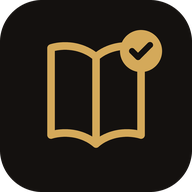
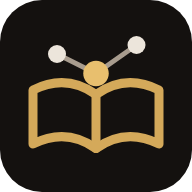
«Pegar reel» desde el portapapeles y nuevo icono
- QuickCapture: barra con «Pegar reel» en la biblioteca, destacada al abrir
  o volver a la app (el momento en que vienes de copiar un enlace en
  Instagram). Un toque guarda el reel en la cola, avisa si ya estaba o si ya
  es ficha, y un enlace de YouTube abre Añadir con la URL puesta. Es lo más
  cerca del menú Compartir que iOS permite a una web instalada.
- Compartir desde Android (share_target) confirma «Reel guardado en la cola».
- Icono nuevo: libro abierto bajo una constelación (el Atlas), regenerados
  los PNG (192, 512, maskable con zona segura y apple-touch a sangre).
- Service worker v4 para que el icono nuevo no se quede en caché.

Claude-Session: https://claude.ai/code/session_016FohR3u5mSqasbiA1kJaFm

diff --git a/src/ui/QuickCapture.tsx b/src/ui/QuickCapture.tsx
@@ -1,0 +1,116 @@
+import { useEffect, useState } from 'react';
+import type { KnowledgeCard } from '../domain/types';
+import { enqueueMany, extractAllInstagramUrls, listQueue, shortcodeOf } from '../services/queue';
+import { IconAdd, IconClose } from './icons';
+
+const YT = /https?:\/\/(?:www\.|m\.)?(?:youtube\.com\/(?:watch\?[^\s]*v=|shorts\/)|youtu\.be\/)[\w-]{11}[^\s]*/;
+
+/** ¿Este navegador deja leer el portapapeles con un toque? */
+export const canPaste = () => typeof navigator !== 'undefined' && !!navigator.clipboard?.readText;
+
+/**
+ * Captura rápida desde el portapapeles: lo más cerca que puede estar una web
+ * instalada en el iPhone del menú Compartir, que iOS no le deja usar.
+ *
+ * En Instagram: Compartir → Copiar enlace. En Bibliothek: «Pegar reel». Un
+ * toque (más el globo «Pegar» que iOS muestra por privacidad) y el reel queda
+ * en la cola. Un enlace de YouTube abre Añadir con la URL ya puesta.
+ *
+ * Una web no puede mirar el portapapeles sin que la toques, así que la barra no
+ * sabe si hay algo copiado: se destaca al volver a la app, que es justo cuando
+ * vienes de copiar un enlace.
+ */
+export function QuickCapture({
+  cards,
+  destacada,
+  onDismiss,
+  onQueued,
+  onYoutube,
+}: {
+  cards: KnowledgeCard[];
+  /** Acabas de volver a la app: la barra se ofrece con más presencia. */
+  destacada: boolean;
+  onDismiss: () => void;
+  onQueued: () => void;
+  onYoutube: (url: string) => void;
+}) {
+  const [msg, setMsg] = useState<{ kind: 'ok' | 'info' | 'error'; text: string } | null>(null);
+
+  useEffect(() => {
+    if (!msg) return;
+    const t = setTimeout(() => setMsg(null), 6000);
+    return () => clearTimeout(t);
+  }, [msg]);
+
+  async function pegar() {
+    let text = '';
+    try {
+      text = (await navigator.clipboard.readText()).trim();
+    } catch {
+      setMsg({ kind: 'error', text: 'No se pudo leer lo copiado. Pega el enlace a mano en Añadir → Instagram.' });
+      return;
+    }
+    const reels = extractAllInstagramUrls(text);
+    if (reels.length > 0) {
+      const fichados = new Set(
+        cards.filter((c) => c.fuente.tipo === 'instagram').map((c) => shortcodeOf(c.fuente.referencia))
+      );
+      const yaFicha = reels.filter((u) => fichados.has(shortcodeOf(u)));
+      const nuevos = reels.filter((u) => !fichados.has(shortcodeOf(u)));
+      const n = nuevos.length ? enqueueMany(nuevos.join('\n')) : 0;
+      onDismiss();
+      if (n > 0) {
+        onQueued();
+        const total = listQueue().length;
+        setMsg({
+          kind: 'ok',
+          text: `${n === 1 ? 'Reel guardado' : `${n} reels guardados`} en la cola · ${total} en total.`,
+        });
+      } else if (yaFicha.length) {
+        setMsg({ kind: 'info', text: 'Ya tienes una ficha de ese reel.' });
+      } else {
+        setMsg({ kind: 'info', text: 'Ese reel ya estaba en la cola.' });
+      }
+      return;
+    }
+    const yt = YT.exec(text);
+    if (yt) {
+      onDismiss();
+      onYoutube(yt[0]);
+      return;
+    }
+    setMsg({
+      kind: 'error',
+      text: text
+        ? 'Lo copiado no es un enlace de Instagram ni de YouTube.'
+        : 'No hay nada copiado. En Instagram: Compartir → Copiar enlace.',
+    });
+  }
+
+  if (msg) {
+    return (
+      <div className={`quick-capture done ${msg.kind}`} role="status">
+        <span className="qc-text">{msg.text}</span>
+        <button className="qc-close" onClick={() => setMsg(null)} aria-label="Cerrar aviso">
+          <IconClose size={15} />
+        </button>
+      </div>
+    );
+  }
+
+  return (
+    <div className={`quick-capture ${destacada ? 'destacada' : ''}`}>
+      <span className="qc-text">
+        {destacada ? '¿Has copiado un reel? Guárdalo en un toque.' : 'Enlace de Instagram o YouTube copiado'}
+      </span>
+      <button className="btn small primary qc-btn" onClick={pegar}>
+        <IconAdd size={15} /> Pegar reel
+      </button>
+      {destacada && (
+        <button className="qc-close" onClick={onDismiss} aria-label="Ocultar">
+          <IconClose size={15} />
+        </button>
+      )}
+    </div>
+  );
+}

diff --git a/src/App.tsx b/src/App.tsx
@@ -16,12 +16,13 @@ import { Settings } from './ui/Settings';
 import { Atlas, type AtlasTab } from './ui/Atlas';
 import { buildGraph } from './services/graph';
 import { Deck } from './ui/Deck';
+import { canPaste, QuickCapture } from './ui/QuickCapture';
 import { IconAdd, IconChart, IconCompass, IconDice, IconLibrary, IconSettings } from './ui/icons';
 
 type View =
   | { name: 'library' }
   | { name: 'practice' }
-  | { name: 'import'; startTab?: 'instagram'; aviso?: string; nonce?: number }
+  | { name: 'import'; startTab?: 'instagram' | 'youtube'; url?: string; aviso?: string; nonce?: number }
   /** `back`: a dónde volver al cerrar la ficha (por defecto, la biblioteca). */
   | { name: 'card'; id: string; back?: View }
   | { name: 'atlas'; tab: AtlasTab; sel: string | null }
@@ -40,6 +41,13 @@ export default function App() {
   const [libFilters, setLibFilters] = useState<LibraryFilters>(NO_FILTERS);
   const libScroll = useRef(0);
   const graph = useMemo(() => buildGraph(cards, links), [cards, links]);
+  /** Al abrir o volver a la app (p. ej. desde Instagram), la barra de «Pegar reel» se destaca. */
+  const [vuelta, setVuelta] = useState(true);
+  useEffect(() => {
+    const onVisible = () => document.visibilityState === 'visible' && setVuelta(true);
+    document.addEventListener('visibilitychange', onVisible);
+    return () => document.removeEventListener('visibilitychange', onVisible);
+  }, []);
 
   /** Recarga fichas y, de paso, crea los micropasos que falten (fichas antiguas incluidas). */
   const refresh = useCallback(async () => {
@@ -166,7 +174,12 @@ export default function App() {
     if (!shared) return;
     history.replaceState(null, '', location.pathname);
     const added = enqueue(shared);
-    setView({ name: 'import', startTab: 'instagram' });
+    setView({
+      name: 'import',
+      startTab: 'instagram',
+      nonce: Date.now(),
+      aviso: added ? 'Reel guardado en la cola.' : undefined,
+    });
     if (!added) {
       setTimeout(() => alert('No se encontró un reel de Instagram en lo compartido (o ya estaba en la cola).'), 0);
     }
@@ -204,6 +217,16 @@ export default function App() {
       </header>
 
       <main className="main">
+        {canPaste() &&
+          (view.name === 'library' || (vuelta && ['practice', 'atlas', 'insights'].includes(view.name))) && (
+            <QuickCapture
+              cards={cards}
+              destacada={vuelta}
+              onDismiss={() => setVuelta(false)}
+              onQueued={() => undefined}
+              onYoutube={(url) => setView({ name: 'import', startTab: 'youtube', url, nonce: Date.now() })}
+            />
+          )}
         {view.name === 'library' && (
           <Library
             cards={cards}
@@ -226,6 +249,7 @@ export default function App() {
           <ImportView
             key={view.nonce ?? 'import'}
             startTab={view.startTab}
+            initialUrl={view.url}
             initialNotice={view.aviso}
             onGoSettings={() => setView({ name: 'settings' })}
             onSaved={(card) => {

diff --git a/src/styles.css b/src/styles.css
@@ -984,3 +984,28 @@ a.btn { text-decoration: none; }
 }
 
 .insights-settings { margin-top: 8px; }
+
+/* ---------- Pegar reel: captura rápida desde el portapapeles ---------- */
+
+.quick-capture {
+  display: flex; align-items: center; gap: 10px;
+  padding: 8px 8px 8px 14px; margin-bottom: 16px;
+  border: 1px solid var(--border); border-radius: var(--radius-sm);
+  background: var(--bg-raised);
+}
+.quick-capture.destacada {
+  border-color: color-mix(in srgb, var(--accent) 45%, var(--border));
+  background: color-mix(in srgb, var(--accent) 9%, var(--bg-raised));
+}
+.qc-text { flex: 1; min-width: 0; font-size: 13.5px; color: var(--text-dim); line-height: 1.35; }
+.quick-capture.destacada .qc-text { color: var(--text); }
+.qc-btn { flex: none; min-height: 40px; }
+.qc-close {
+  flex: none; width: 36px; height: 36px; display: grid; place-items: center;
+  background: none; border: none; color: var(--text-faint); border-radius: var(--radius-xs);
+}
+.qc-close:hover { color: var(--text); }
+.quick-capture.done { padding-block: 10px; }
+.quick-capture.done.ok { border-color: color-mix(in srgb, var(--ok) 45%, var(--border)); }
+.quick-capture.done.ok .qc-text { color: var(--text); }
+.quick-capture.done.error .qc-text { color: var(--danger); }

diff --git a/src/ui/ImportView.tsx b/src/ui/ImportView.tsx
@@ -79,8 +79,11 @@ export function ImportView({
   onSaved,
   onBatchDone,
   onGoSettings,
+  initialUrl,
 }: {
-  startTab?: 'instagram';
+  startTab?: 'instagram' | 'youtube';
+  /** URL de YouTube ya puesta (viene de «Pegar reel» con un enlace de YouTube). */
+  initialUrl?: string;
   /** Sin API key no se puede analizar: el aviso lleva a Ajustes. */
   onGoSettings: () => void;
   /** Aviso con el que se entra (p. ej. los reels que acaba de traer un enlace). */
@@ -90,7 +93,7 @@ export function ImportView({
 }) {
   const [mode, setMode] = useState<Mode>(startTab ?? 'video');
   const [file, setFile] = useState<File | null>(null);
-  const [url, setUrl] = useState('');
+  const [url, setUrl] = useState(initialUrl ?? '');
   const [igUrl, setIgUrl] = useState('');
   const [text, setText] = useState('');
   const [stage, setStage] = useState<Stage | null>(null);

diff --git a/public/sw.js b/public/sw.js
@@ -1,5 +1,5 @@
 /* Bibliotheke service worker: app-shell cache para uso offline de la biblioteca. */
-const CACHE = 'bibliotheke-v3';
+const CACHE = 'bibliotheke-v4';
 const SHELL = ['/', '/index.html', '/manifest.webmanifest', '/icon.svg', '/apple-touch-icon.png'];
 
 self.addEventListener('install', (event) => {

diff --git a/README.md b/README.md
@@ -74,12 +74,14 @@ A partir del segundo envío el enlace lleva **solo lo que ha cambiado desde el a
 
 ### En iPhone
 
-Safari en iOS todavía no permite que una web instalada aparezca en el menú Compartir de Instagram, así que el `share_target` del manifest solo funciona en Android. En el iPhone:
+Safari en iOS todavía no permite que una web instalada aparezca en el menú Compartir de Instagram, así que el `share_target` del manifest solo funciona en Android. En el iPhone, el camino rápido es el portapapeles:
 
 1. En el reel, toca Compartir → **Copiar enlace**.
-2. En Bibliotheke, **Añadir → Instagram → «Pegar enlace copiado»** y «Guardar en la cola».
+2. Abre Bibliotheke: arriba aparece **«Pegar reel»** (destacado justo al volver a la app). Un toque —más el globo «Pegar» que iOS muestra por privacidad— y el reel queda en la cola. Si lo copiado es un vídeo de YouTube, se abre Añadir con la URL ya puesta.
 
-Para hacerlo en un toque, crea un **Atajo de iOS** que reciba URLs desde la hoja de compartir y abra `https://<tu-dominio>/?share_url=` seguido de la URL (con la acción «Codificar URL»). La app recoge el reel y lo deja en la cola. Ojo: el Atajo abre Safari, y en iOS la app añadida a la pantalla de inicio guarda sus datos aparte de Safari; si usas la app instalada, el atajo más fiable es «Copiar al portapapeles» seguido de abrir la app y pulsar «Pegar enlace copiado».
+La app no puede saber por sí sola si hay un enlace copiado: iOS no deja a una web leer el portapapeles sin que la toques. Por eso es un botón y no un aviso automático.
+
+Un **Atajo de iOS** en la hoja de compartir que abra `https://<tu-dominio>/?share_url=` + la URL codificada también funciona, pero abre Safari, y en iOS la app de la pantalla de inicio guarda sus datos aparte de Safari: el reel acabaría en la cola de Safari, no en la de la app.
 
 Antes de analizar, la app avisa si ya tienes una ficha de esa misma fuente, y al procesar la cola se salta los reels que ya son ficha.
 
